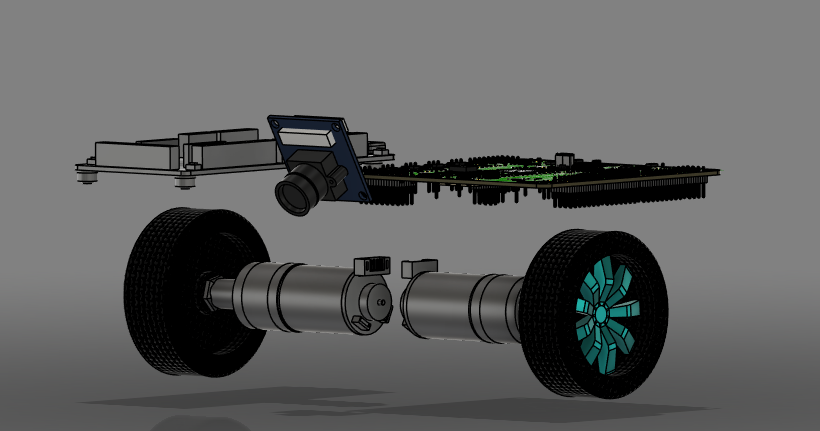
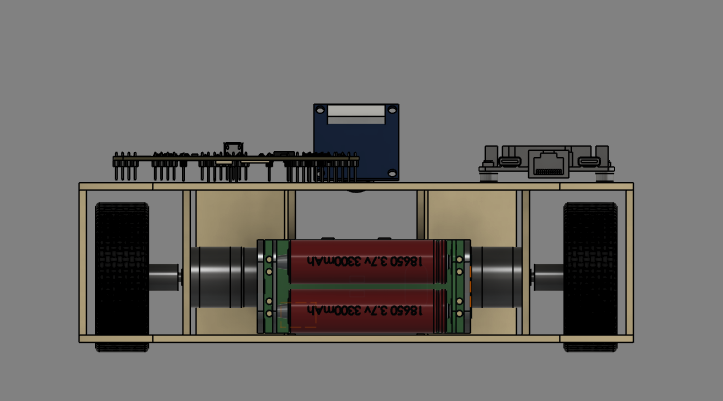
dodání fotek do readme

diff --git a/projects/SENZOR_COMBO/include/uart_comand.h b/projects/SENZOR_COMBO/include/uart_comand.h
@@ -1,10 +1,9 @@
 #include <Arduino.h>
-#include<tuple>
 
 // max počet detekovaných objektů
 #define MAX_OD_BOX_CNT 20
 
-// Definice přijímané struktury 
+// Definice struktury přijímaných dat 
 typedef struct tagODResult_t {
     union {
         int16_t xyxy[4];  // Při použití jako array
@@ -19,71 +18,40 @@ typedef struct tagODResult_t {
     int16_t color;	// here will be the color value -> red = 1, blue = 0
 } ODResult_t;
 
-// Definice struktury UARTResult_t
+// Definice struktury odesílaných dat UARTResult_t
 typedef struct tagUARTResult_t {
     uint8_t header;          // Hlavička
     uint8_t leng;            // Délka dat
     int16_t suma;            // Součet
     ODResult_t results_array[MAX_OD_BOX_CNT];  // Pole výsledků
 } UARTResult_t;
+
+//nastavý uart
 void uart_set_up(){
-        //Serial.begin(115200); // Hlavní UART pro komunikaci s PC
+        Serial.begin(115200); // Hlavní UART pro komunikaci s PC
         Serial2.begin(115200, SERIAL_8N1, 16,17); // Nastavení UART2
         while (!Serial) {
             ; // Čekáme na připojení sériového portu (pokud používáš USB)
         }
         Serial.println("Serial started, waiting for data...");
-        if(Serial2.available()) Serial.println("UART je ready");
 }
 // Definujeme velikost struktury UARTResult_t
 const int length_of_struct = sizeof(UARTResult_t);  // Velikost celé struktury UARTResult_t
 uint8_t struct_bytes[length_of_struct];  // Buffer pro přijatá data
 size_t bytesReceived = 0;  // Počet přijatých bajtů
 
-//získá data posílaná přes uart z nxp
-//výstup: [x1, y1, x2, y2, score, color] -> souřadnice protilehlých rohů bouding boxu, score = procentualní přesnost *10, barva najitého objektu
-std::array<ODResult_t, MAX_OD_BOX_CNT>get_uart_data()
-{
-// array s výsledky
-std::array<ODResult_t, MAX_OD_BOX_CNT> results;
-
-// Pokud máme nějaká data na UART2
-//if (Serial2.available()) {
-    // Načteme jeden byte do bufferu
-    struct_bytes[bytesReceived] = Serial2.read();
-    bytesReceived++;
-    
-    // Pokud máme celou strukturu
+// vezme proměnou a uloží do ní strukturu UARTResult_t + vrátí true jestli je celý
+bool get_uart_data(UARTResult_t &output) {
+    while (Serial2.available() && bytesReceived < length_of_struct) {
+        struct_bytes[bytesReceived++] = Serial2.read();
+    }
     if (bytesReceived >= length_of_struct) {
-        // Deserializace přijatých dat na strukturu UARTResult_t
-        UARTResult_t receivedPacket;
-        memcpy(&receivedPacket, struct_bytes, sizeof(UARTResult_t));
-            // Vypíšeme přijaté hodnoty na hlavní sériový port
-            Serial.printf("Received UARTResult_t:\n");
-            Serial.printf("Header: %d\n", receivedPacket.header);
-            Serial.printf("Length: %d\n", receivedPacket.leng);
-            Serial.printf("Suma: %d\n", receivedPacket.suma);
-            
-            // Vypíšeme výsledky
-            for (int i = 0; i < MAX_OD_BOX_CNT; i++) {
-                Serial.printf("Result %d: (x1: %d, y1: %d, x2: %d, y2: %d, score10: %d, color: %d)\n",
-                              i,
-                              receivedPacket.results_array[i].x1,
-                              receivedPacket.results_array[i].y1,
-                              receivedPacket.results_array[i].x2,
-                              receivedPacket.results_array[i].y2,
-                              receivedPacket.results_array[i].score10,
-                            receivedPacket.results_array[i].color);
-            }
-            // Resetujeme byte count pro příjem dalších dat
-            bytesReceived = 0;
-        }
-    //}
-    return results;
+        memcpy(&output, struct_bytes, sizeof(UARTResult_t));
+        // Debug print
+        Serial.printf("Header: %d, Length: %d, Sum: %d\n",
+                      output.header, output.leng, output.suma);
+        bytesReceived = 0;  // připraven na další packet
+        return true;
+    }
+    return false;
 }
-
-
-
-
-
-

diff --git a/projects/SENZOR_COMBO/src/main.cpp b/projects/SENZOR_COMBO/src/main.cpp
@@ -102,6 +102,7 @@ void setup()
   tcs.begin(0x29);
 
   uart_set_up();
+  UARTResult_t vstup_uart;
 
   while(true)
   {
@@ -111,7 +112,18 @@ void setup()
     vzdalenost();
     //delay(200);
     Serial.println("##########################################");
-    for(int i =0 ;i<100;i++) get_uart_data();  // získej výsledky
+    if (get_uart_data(vstup_uart)) {
+        // Mám teď celý packet, můžu pracovat
+        for (int i = 0; i < MAX_OD_BOX_CNT; i++) {
+            if(vstup_uart.results_array[i].score10>900)
+            {
+                Serial.printf("x1: %d, x2: %d, score: %d\n",
+                            vstup_uart.results_array[i].x1,
+                            vstup_uart.results_array[i].x2,
+                            vstup_uart.results_array[i].score10);
+            }
+        }
+    }
 
 
     // Pro jistotu vypiš alespoň jeden výsledek manuálně, i mimo funkci

diff --git a/projects/UART/src/main.cpp b/projects/UART/src/main.cpp
@@ -106,13 +106,14 @@ void loop() {
     if (get_uart_data(vstup)) {
         // Mám teď celý packet, můžu pracovat
         for (int i = 0; i < MAX_OD_BOX_CNT; i++) {
-            if(vstup.results_array[i].score10>900)
-            {
-                Serial.printf("x1: %d, x2: %d, score: %d\n",
+            //if(vstup.results_array[i].score10>900)
+            //{
+                Serial.printf("x1: %d, x2: %d, score: %d, color: %d\n",
                             vstup.results_array[i].x1,
                             vstup.results_array[i].x2,
-                            vstup.results_array[i].score10);
-            }
+                            vstup.results_array[i].score10,
+                        vstup.results_array[i].color);
+            //}
         }
     }
     //delay(100);

diff --git a/projects/UART/include/uart_comand.h b/projects/UART/include/uart_comand.h
@@ -80,6 +80,8 @@ size_t bytesReceived = 0;  // Počet přijatých bajtů
 //     }
 //     return receivedPacket;
 // }
+
+// vezme proměnou a uloží do ní strukturu UARTResult_t + vrátí true jestli je celý
 bool get_uart_data(UARTResult_t &output) {
     while (Serial2.available() && bytesReceived < length_of_struct) {
         struct_bytes[bytesReceived++] = Serial2.read();

diff --git a/README.md b/README.md
@@ -7,8 +7,11 @@ FalconEye is a mobile robot designed for the **Puck Collect** competition - Prag
 The robot is constructed from 3mm plywood, chosen for its balance of strength, rigidity, and light weight. The chassis was designed with high modularity and robustness in mind, while still maintaining simple assembly and serviceability. The structure is optimized for stability, durability, and tactical efficiency.
 
 ![FalconEye Assembled](./images/image.png)
-![FalconEye Exploded View](./images/image2.png)
-![FalconEye Transparent View](./images/image3.png)
+![FalconEye Transparent View](./images/image2.png)
+![FalconEye Back View](./images/image3.png)
+![UART connection on the side of RBCX](./images/UART_RBCX.jpg)
+![UART connection on the side of NXP board](./images/UART_NXP.jpg)
+
 
 ## Vision System
 
